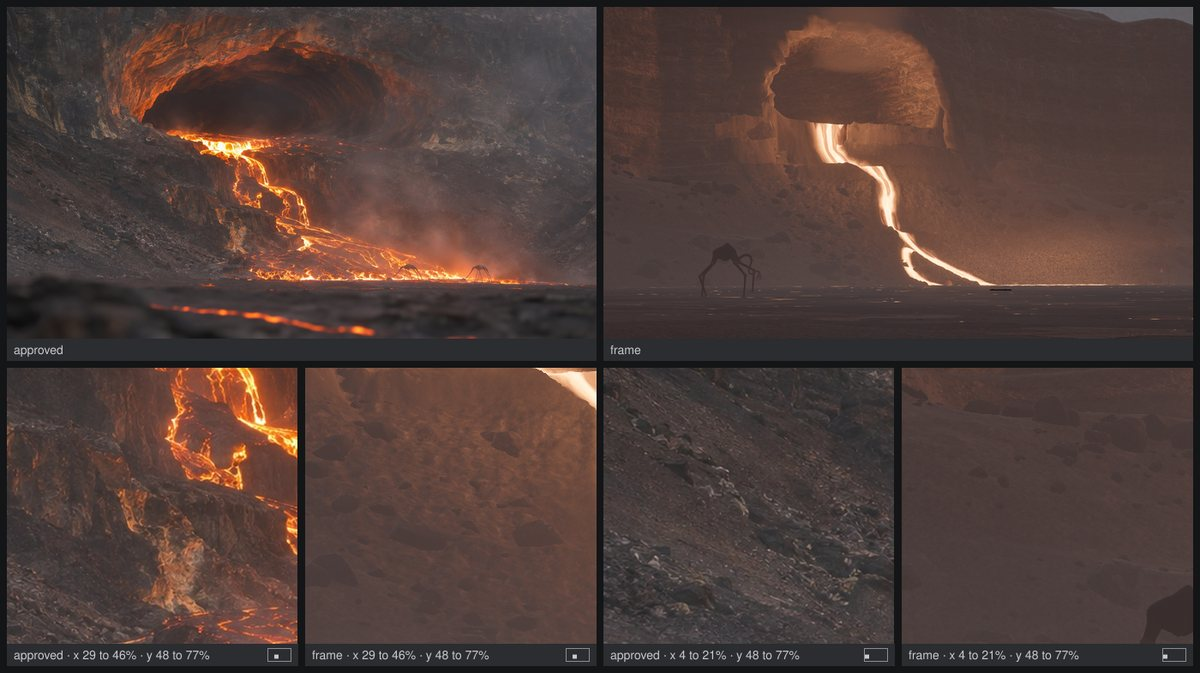
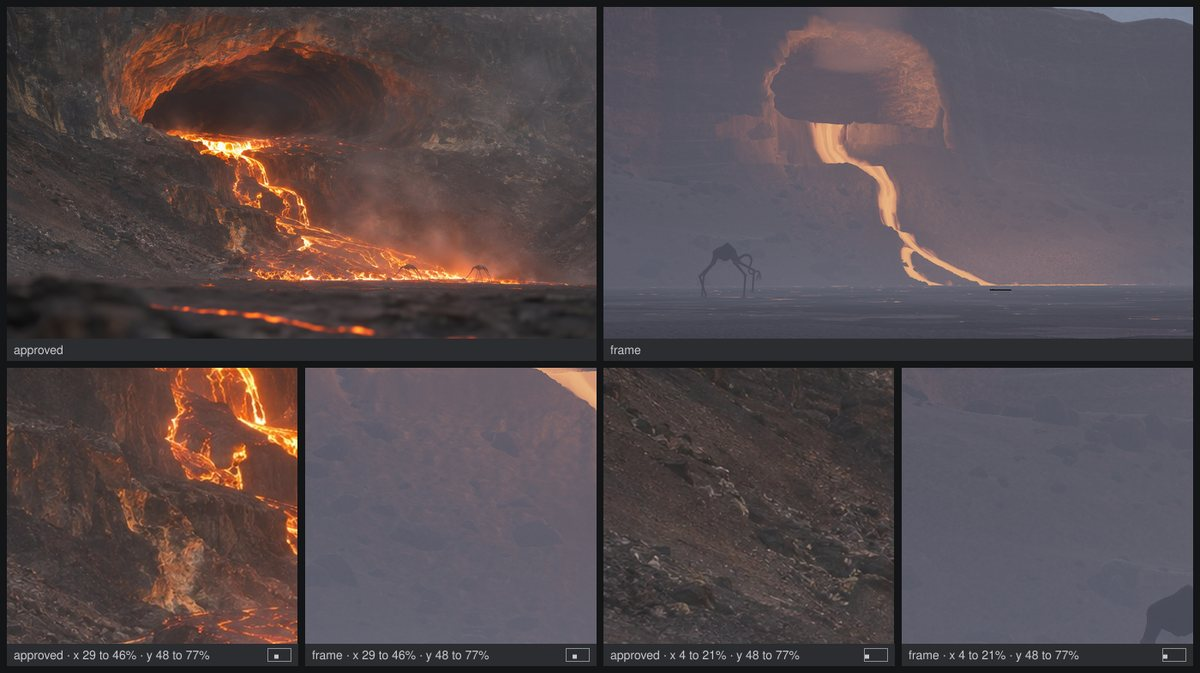
Heart: a second tone curve for what glows, land v2 merged, status 25

diff --git a/src/core/post.ts b/src/core/post.ts
@@ -85,6 +85,7 @@ uniform sampler2D tBloom;
 uniform sampler2D tDepth;
 uniform vec2 uSize;
 uniform float uExposure;
+uniform vec3 uFire;
 uniform float uBloom;
 uniform float uVignette;
 uniform float uGrain;
@@ -129,7 +130,13 @@ void main() {
   vec3 c = mix(clean(raw), texture2D(tBloom, vUv).rgb / float(${LEVELS}), uBloom);
   vec2 q = (vUv - 0.5) * vec2(uSize.x / uSize.y, 1.0);
   c *= 1.0 - uVignette * smoothstep(0.25, 1.05, length(q));
-  c = AgXToneMapping(c * uExposure);
+  vec3 lit = c * uExposure;
+  c = AgXToneMapping(lit);
+  if (uFire.y > 0.0) {
+    // What glows passes to a filmic curve laid on each channel, which keeps the colour of fire where the first curve turns it pale.
+    float w = smoothstep(uFire.x, uFire.y, max(lit.r, max(lit.g, lit.b)));
+    if (w > 0.0) c = mix(c, ACESFilmicToneMapping(lit * uFire.z), w);
+  }
   c = toSrgb(c);
   float luma = dot(c, vec3(0.2126, 0.7152, 0.0722));
   c = mix(vec3(luma), c, uSaturation);
@@ -200,6 +207,7 @@ export class Post {
     tDepth: { value: null },
     uSize: { value: new THREE.Vector2() },
     uExposure: { value: 1 },
+    uFire: { value: new THREE.Vector3(0, 0, 1) },
     uBloom: { value: 0 },
     uVignette: { value: 0 },
     uGrain: { value: 0 },
@@ -271,6 +279,7 @@ export class Post {
     f.tDepth!.value = depth;
     (f.uSize!.value as THREE.Vector2).set(this.width, this.height);
     f.uExposure!.value = look.exposure;
+    (f.uFire!.value as THREE.Vector3).set(look.fire?.[0] ?? 0, look.fire?.[1] ?? 0, look.fire?.[2] ?? 1);
     f.uBloom!.value = look.bloom;
     f.uVignette!.value = look.vignette;
     f.uGrain!.value = look.grain;

diff --git a/src/core/stage.ts b/src/core/stage.ts
@@ -17,6 +17,8 @@ export interface Look {
   tint: [number, number, number];
   /** A knee on what is brighter than its first number, laid on every sample before it is averaged: the brightest channel b becomes knee[0] * (1 + knee[1] * ln(b / knee[0])) and the colour keeps its hue. Absent: none. */
   knee?: [number, number];
+  /** The curve of what glows. A pixel whose brightest channel, after exposure, lies above the first number passes to a filmic curve laid on each channel, fully by the second number; the third is that curve's exposure against the look's. Absent: one curve for everything. */
+  fire?: [number, number, number];
 }
 
 export const neutralLook = (): Look => ({

diff --git a/src/places/heart/index.ts b/src/places/heart/index.ts
@@ -140,7 +140,7 @@ async function create(): Promise<Place> {
     unit: UNIT,
     scene,
     camera,
-    look: { ...neutralLook(), exposure: 1.7, bloom: 0.05, vignette: 0.1, grain: 0.006, knee: [0.6, 0.3] },
+    look: { ...neutralLook(), exposure: 1.7, bloom: 0.05, vignette: 0.1, grain: 0.006, knee: [0.6, 0.6], fire: [0.35, 1.6, 0.6] },
     volume,
     warp,
     depthFirst: true,

diff --git a/kit/PROGRESS.md b/kit/PROGRESS.md
@@ -24,27 +24,27 @@ The Builder's memory. Read it at the start of every task and after every compact
 
 The pictures of the newest status, with their captions and the time. Files are in `out/stills/status/`.
 
-Status 24, 2026-11-25 04:22 UTC:
+Status 25, 2026-11-25 04:42 UTC:
 
-- `01-heart-0.jpg`: The wide view, the approved picture on the left and the first joined frame on the right. Every part is in its place. The bench is a plain ramp, the crust is cracked mud and the light is too dark and too red.
-- `02-heart-3.jpg`: The tall ones at the seam. They stand, step and feed, and they still read as models: smooth tubes with no hide.
-- `03-heart-2.jpg`: The one that sank. The arch and the folded skin are there, nearly black. The camera here is the old one and will be fitted again.
-- `04-heart-4.jpg`: The vessel mouth and the fall. The throat is too bright and flat, and the stream is a smooth ribbon with no steps.
+- `01-heart-0.jpg`: Wide key after the light fix: approved picture left, joined frame right. Sky and near bench now measure close; the far air is still too blue (the air owner is rebalancing it toward the lake's warm glow)
+- `02-pair-a.jpg`: Walkers and the line, approved left, frame right: the animals are still dark and heavy, the channel is flat and pale. Both owners have their directions
+- `03-pair-b.jpg`: The one that sank and the fall, approved left, frame right: the mouth is broken from this angle and the lava reads pale peach; the tone curve is being changed so lava keeps a fiery orange
+- `04-heart-4.jpg`: heart-4: approved beside frame, hd draft, with 2 crop pairs
 
+Status 24, 2026-11-25 04:22 UTC, showed: The wide view, the approved picture on the left and the first joined frame on the right. Every part is in its place.
 Status 23, 2026-11-25 04:04 UTC, showed: The first-light land drawn alone, 3840 x 2160, one sample.
 Status 22, 2026-11-25 03:41 UTC, showed: First light of the built Heart beside its approved picture.
-Status 21, 2026-11-25 03:24 UTC, showed: Phase 3, the Heart: nine surface pictures generated for the build (lake skin, ropy bench lava, wall strata, scree, sulphur, walker hide...
 
 ## Clock
 
 Copied from the last tick of `npm run clock`.
 
 ```
-2026-11-25T04:22:39Z
-phase 3: 1.22 h used of 13.00 h
-build: 7.88 h used of 72.00 h
+2026-11-25T04:42:28Z
+phase 3: 1.55 h used of 13.00 h
+build: 8.21 h used of 72.00 h
 extra rounds: yes
-minutes since the last status: 19
+minutes since the last status: 20
 ```
 
 ## Phases
@@ -729,3 +729,4 @@ none
 - 2026-11-25 04:04 UTC. Status 23. Seven agents started at 03:52 UTC (six owners of the Heart's folders, one for the runners of G13 and G14). MEASURED at 3840 x 2160 on key heart-0 with the first light: 17.7 s a frame of one sample, an empty frame 3.2 s, the land alone 8.3 s above it, the crust 3.6 s, the bench 2.6 s (new tool npm run cost). MEASURED: the software renderer runs the full fragment shader for every layer of triangles, hidden or not (depth first alone: 17.7 s against 17.3 s); a shader that discards in its first line costs a fifth (0.7 s against 3.6 s). The owners were told at 04:05 UTC. Engine: the half-size air is laid over the frame by depth, a warp pass for heat shimmer, a depth-first pass (Place.depthFirst).
 - 2026-11-25 04:11 UTC. The engine rejects hidden fragments before shading them (Place.depthFirst): key heart-0 at 3840 x 2160, one sample, 13.5 s against 17.7 s, the picture identical byte for byte at the preview size. 761 tests pass. npm run cost is in tools/README.md.
 - 2026-11-25 04:22 UTC. 04:23 UTC: G13 merged (the register has every stand-in reference again, 799 tests green by the agent's run). The first versions of all six owners of the Heart merged: land (2cd3ff2), fall (ac59ed2), sunk (8533fa7), walkers (3743542), lake (e18921a), air (225329c). 14 of 14 parts are built parts. Compared at hd draft against the five approved pictures: all far from the bar. Status 24 sent.
+- 2026-11-25 04:49 UTC. Status 25 sent 04:42. The first tone curve alone turned every lava temperature pale peach, so a second curve for what glows was added: Look.fire [lo, hi, exposure] in src/core/stage.ts and uFire in src/core/post.ts; above lo the pixel passes to a filmic curve, fully by hi; greys stay continuous. Heart look now exposure 1.7, knee [0.6, 0.6], fire [0.35, 1.6, 0.6]; other places unchanged. Land v2 merged (rim fitted to the wide picture, bench in treads with a crag, rock faces, cool grey rock, smaller steam); build and tsc pass.

diff --git a/out/stills/status/STATUS.md b/out/stills/status/STATUS.md
@@ -1,8 +1,8 @@
-# Status 24
+# Status 25
 
-2026-11-25 04:22 UTC. Phase 3, the look lock: the Heart.
+2026-11-25 04:42 UTC. Phase 3, the look lock: the Heart.
 
-- `01-heart-0.jpg`: The wide view, the approved picture on the left and the first joined frame on the right. Every part is in its place. The bench is a plain ramp, the crust is cracked mud and the light is too dark and too red.
-- `02-heart-3.jpg`: The tall ones at the seam. They stand, step and feed, and they still read as models: smooth tubes with no hide.
-- `03-heart-2.jpg`: The one that sank. The arch and the folded skin are there, nearly black. The camera here is the old one and will be fitted again.
-- `04-heart-4.jpg`: The vessel mouth and the fall. The throat is too bright and flat, and the stream is a smooth ribbon with no steps.
+- `01-heart-0.jpg`: Wide key after the light fix: approved picture left, joined frame right. Sky and near bench now measure close; the far air is still too blue (the air owner is rebalancing it toward the lake's warm glow)
+- `02-pair-a.jpg`: Walkers and the line, approved left, frame right: the animals are still dark and heavy, the channel is flat and pale. Both owners have their directions
+- `03-pair-b.jpg`: The one that sank and the fall, approved left, frame right: the mouth is broken from this angle and the lava reads pale peach; the tone curve is being changed so lava keeps a fiery orange
+- `04-heart-4.jpg`: heart-4: approved beside frame, hd draft, with 2 crop pairs
